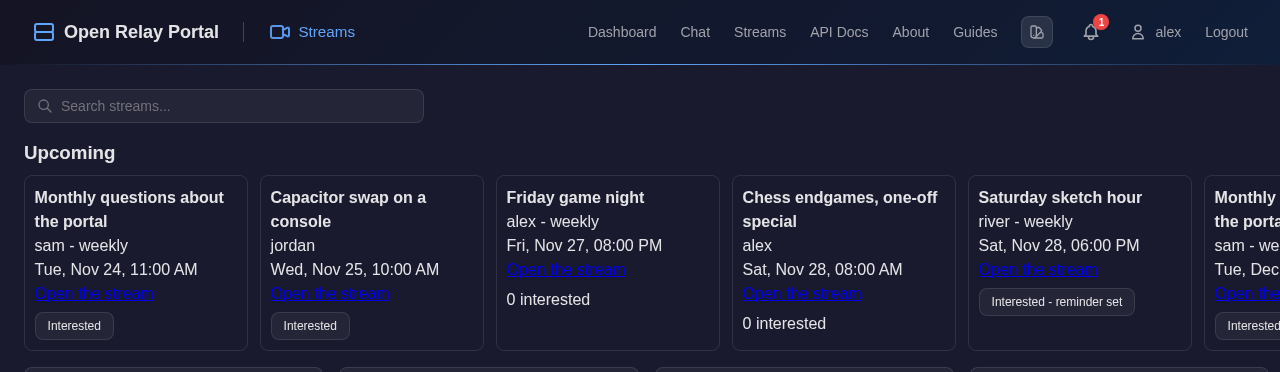
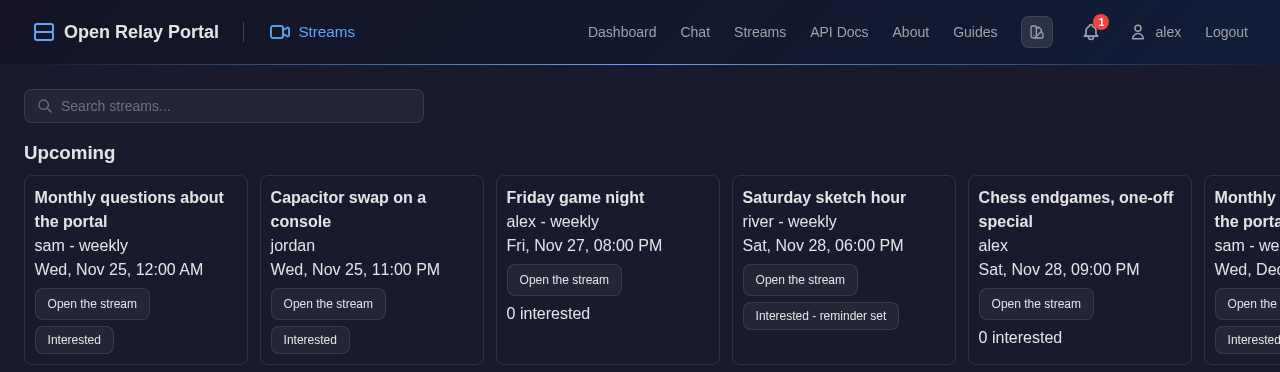
README: 1.23.0 notes read against the code (Interested marks of a member who lost access go when their reminder falls due, the Remove unavailable entries action, Regenerate asking first, the editor now styled); schedule editor, Upcoming strip, message menu and Saved view pictures retaken from the fi

diff --git a/tools/make_screenshots.py b/tools/make_screenshots.py
@@ -2122,7 +2122,8 @@ def _streams_upcoming(s):
 @shot("schedule-editor")
 def _schedule_editor(s):
     seeded_schedule(s)
-    ctx = s.context("alex", viewport={"width": 1280, "height": 2400})
+    # taller than the stream settings picture: the Schedule section is far down the window and its form is long
+    ctx = s.context("alex", viewport={"width": 1280, "height": 3600})
     page = s.open(ctx, "/", ".stat-card")
     page.evaluate("switchTab('my-streams')")
     page.wait_for_selector(".stream-card", timeout=15000)

diff --git a/README.md b/README.md
@@ -250,7 +250,7 @@ All pictures are taken from a throwaway demo instance with made-up members and a
 *Message menu (1.23.0) — Save message and Remind me... next to Reply, React and Copy Text; the two messages above it carry the small Saved marker that only you see*
 
 ![Saved view](docs/screenshots/saved-view.png)
-*Saved view (1.23.0) — a saved message with Jump to message, Remind me and Remove, one with a reminder set for tomorrow 9:00, and one that is no longer available (deleted: only the time it was saved is left)*
+*Saved view (1.23.0) — the Remove unavailable entries button above the list, a saved message with Jump to message, Remind me and Remove, one with a reminder set for tomorrow 9:00, and one that is no longer available (deleted: only the time it was saved is left)*
 
 ![Direct Messages](docs/screenshots/dms.png)
 *Direct Messages — private 1:1 and group conversations with encryption at rest*
@@ -875,12 +875,12 @@ Not tested: the rule and its cache were exercised with the portal's own handlers
 - **Who sees an entry:** exactly those who may watch the stream (`_stream_read_allowed`, the watch rule), asked again on every read: the upcoming list, the stream's countdown, the Interested mark, the reminder and the calendar feed. A member who may not watch gets the same `404` as for an unknown stream, and no list, count or reminder reveals the entry. The owner sees a count of interested members, never who.
 - **Visitors.** `/watch/{id}` sends anyone who is not signed in to the sign-in page, so a visitor never sees the offline page; nothing changes for visitors.
 - **Entries.** A title of at most 100 characters, a start as local time in an IANA zone (`2026-12-04T21:00`, `Europe/Berlin`), a duration of 5 to 1440 minutes and optionally `weekly`. A weekly entry keeps its wall-clock time: Friday 21:00 in Berlin is 20:00 UTC in winter and 19:00 UTC in summer. A start that does not exist (the hour skipped in spring) is read as zoneinfo reads it, an hour later. Caps: 20 entries per stream, 60 per owner, 200 upcoming Interested marks per member, 60 cancelled occurrences kept per entry. Cancel one occurrence or delete the whole entry; moving an entry's time drops the marks and cancellations of occurrences to come.
-- **Interested** refers to one occurrence (the one the countdown shows). It is dropped when that occurrence is cancelled or moved, and at the next tick when the member may no longer watch the stream or is banned from it. The Interested button on the countdown goes away once the start has passed, as the route refuses a mark from then on. Past marks are pruned after 7 days, and the hourly prune also removes the started marks of occurrences more than a day old (nothing reads them any more).
+- **Interested** refers to one occurrence (the one the countdown shows). It is dropped when that occurrence is cancelled or moved. A member who may no longer watch the stream or is banned from it sees nothing of it at once (every read asks the watch rule again), and the mark itself is dropped when its reminder falls due, in the first tick that finds the occurrence within 10 minutes of its start, without a reminder being sent. The Interested button on the countdown goes away once the start has passed, as the route refuses a mark from then on. Past marks are pruned after 7 days, and the hourly prune also removes the started marks of occurrences more than a day old (nothing reads them any more).
 - **Reminder.** One tick every 30 seconds sends the in-app notification (`stream_reminder`) and the push to each member with a mark whose occurrence starts within the next 10 minutes: between 10:00 and 9:30 before the start, so "Friday 21:00" reminds at about 20:50. The wording is under "For administrators, in short". The reminder is claimed in the database (the sent mark is stored with the mark and also in a small table that outlives it) before it is sent, so it is never sent twice, also across a restart and also when the member takes the mark back and marks again, or the owner cancels and restores the occurrence or moves the entry and back; a start that passed while the portal was down sends nothing. Before the claim the occurrence must still exist as scheduled (not cancelled, moved or started). Right after the claim the stream is read again and the member's right to watch it is checked again, and only then is anything sent: a stream made private in between, or a member who lost access, gets no notification, no push and no streamer name, the mark is dropped and the reminder is not owed again. **A mark made inside the 10 minutes** gets its one reminder at the next tick (at most one, never none, never two). **An occurrence start in a URL** is a whole number from 1 to 4102444800 (1 January 2100); anything else, however large, is refused (`404` on a mark, `400` on cancel and restore) instead of failing with a server error.
 - **A time zone the host lost.** If a tzdata update removes a zone name an entry was stored with, that one entry has no upcoming occurrence anywhere it is read: it is left out of the Upcoming list, of a stream's countdown, of the calendar feed and of the reminder pass (its marks stay and are not dropped, so the reminder works again if the zone does), a mark or a cancel on it is refused with `400`, and every other entry and every other member is unaffected. Its owner sees it in the editor with "time zone no longer available". The editor has no control that changes an entry, so the owner deletes it and adds it again with another zone; through the API a `PUT` with a new `tz` fixes it in place (a change of the start without a new zone is refused with `400`). Either way the entry's Interested marks are dropped, as for any change of the time. The portal logs it once per entry per day.
 - **Go-live.** A stream that goes live from 15 minutes before to 30 minutes after a slot's start belongs to that slot: the occurrence is marked started (the countdown moves to the next one, no reminder is sent for it) and the slot's title is offered to the owner in the stream settings (Use this title or Dismiss). Nothing is renamed by the server.
 - **Pages.** While a stream is offline the watch page shows the next occurrence with its title, a countdown and, for a signed-in member who is not the owner, an Interested toggle. The Streams page has an Upcoming strip, the stream settings a Schedule section, User settings a calendar link block.
-- **Calendar feed.** `GET /api/streams/schedule/feed/{token}.ics` needs no login. The token is made for one member (256 random bits, prefix `sf_`), stored only as a SHA-256 hash, shown once when it is made, replaced by Regenerate and ended by Revoke, and accepted by this route alone (it is no session, API key or bearer token anywhere else, and this route reads no cookie or header credential). The feed holds the entries of the streams the member follows, has marked Interested on, or owns, and of those only what they may watch at the moment of the fetch. Making a stream private removes it from a non-member's feed at the next fetch.
+- **Calendar feed.** `GET /api/streams/schedule/feed/{token}.ics` needs no login. The token is made for one member (256 random bits, prefix `sf_`), stored only as a SHA-256 hash, shown once when it is made, replaced by Regenerate and ended by Revoke, and accepted by this route alone (it is no session, API key or bearer token anywhere else, and this route reads no cookie or header credential). The feed holds the entries of the streams the member follows, has marked Interested on, or owns, and of those only what they may watch at the moment of the fetch. Making a stream private removes it from a non-member's feed at the next fetch. In User settings, Regenerate asks first and says that it ends the link in use, and the address that was shown is taken off the page when the settings dialog is closed.
 - **Daylight saving in the feed.** A weekly entry is one `VEVENT` with `DTSTART;TZID=<zone>:<local time>`, `RRULE:FREQ=WEEKLY`, `EXDATE;TZID=<zone>` for cancelled weeks and a `VTIMEZONE` built from the zone's real transitions (explicit observances, no rule parsing needed by the client). A UTC `DTSTART` would keep the UTC hour and drift by an hour at a change. Each cancelled week is printed at the wall-clock time the rule itself produces for it, also for a week whose time falls in the hour a spring-forward change skips (02:30 in Berlin stays 02:30, not 03:30), and the autumn fold. The `VTIMEZONE` block is built once per zone and year range, not once per fetch. The test expands the rule from the file alone across the Berlin change of 25 October 2026.
 - **Feed format and limits.** UIDs are `schedule-<entry id>@<host name>`; text is escaped, lines are folded at 75 octets, line ends are CRLF. Answers are `no-store` with `Referrer-Policy: no-referrer`; an unknown, malformed or revoked token is one identical `404`; `429` with `Retry-After` after 30 requests per token or 120 per address in 10 minutes (an IPv6 address counts as its /64 network, as in every other limiter; when the table of counters is full the entry used least recently is dropped, never all of them). That `429` goes the way of every other rate limit: its text carries a reference ID (kept per address, with the limiter names `schedule_feed_address` and `schedule_feed_token` for the administrator's lookup), so the reference rows stay bounded, and neither the token nor its hash is stored with it.
 - **Routes.** `GET /api/streams/schedule/upcoming` (30 requests a minute per member, its own budget separate from the chat history; `429` with `Retry-After` and a reference ID, limiter name `schedule_upcoming`), the entry and occurrence routes under `/api/streams/{id}/schedule`, `PUT`/`DELETE .../rsvp/{start}`, the feed and `/api/me/schedule-feed`, described in docs/API.md and `static/api-docs.html`.
@@ -893,7 +893,7 @@ Not tested: the rule and its cache were exercised with the portal's own handlers
 - **Private to the member.** Every route is the caller's own and takes a browser session or a full-access token (API keys and stream keys get `403`). No frame is sent on any socket when an entry is saved, changed or removed, no audit or log line is written about one, an administrator sees nothing (not even a count), and answers are `Cache-Control: private, no-store`. A save of a message that does not exist and of one the member may not read give the same `404`.
 - **Limits.** 500 saved entries and 100 waiting reminders per member (both enforced inside the SQL statement, not by a read followed by a write), a reminder at most 366 days ahead, at most 200 `reminder` notifications kept per member (when a firing would exceed that, the member's oldest `reminder` notifications are deleted in the same transaction, so re-arming reminders over and over cannot grow the notifications table without bound), the list in pages of 30 (at most 50) sharing the chat history budget of 30 a minute. A reminder time is an absolute UTC instant with a `Z`, in the future; the page works out "tomorrow 9:00" and "next week" in the member's own time zone and sends the instant.
 - **Reminders.** The task ticks every 30 seconds (the first tick 5 seconds after the start) and reads a partial index of the waiting reminders. A tick fires at most 50 due reminders, and at most 10 of one member (their oldest first, so a member with many due reminders cannot use the whole tick; the rest fire in the following ticks, none is lost and none fires twice); each one is marked fired and its `reminder` notification written in one database transaction, so it is never sent twice, also across a restart, and a reminder that came due while the portal was down is fired once at the first ticks after the start (50 per tick, so a long outage drains over a few ticks). The notification title is always "Reminder for a saved message" with no text; its data holds ids only, and clicking it opens the message through the existing jump-to-message, or the Saved view (`/chat?saved=1`) when the message cannot be read any more. A reminder for a direct message opens the Saved view; Jump to message there opens the conversation, not the message in context, because there is no per-message jump for direct messages. The in-app frame and the push are sent after that commit: a crash between the two would lose that one push, never repeat it. The push payload is the fixed title, the body "Open the portal to see it." and the jump URL: never message text, an author or a channel name.
-- **Chat page.** "Save message" / "Remove from Saved" and "Remind me..." in the message menu, a "Saved" marker on saved messages (only in the member's own browser), a **Saved** button above the chat that opens the list with Jump to message, Remind me (quick choices, a date and time picker, Clear reminder) and Remove, a full-screen layout with 44 px controls on a phone, and the keyboard path: the message list takes focus, the arrow keys move between messages, the menu key (or Shift+F10) opens that message's menu, arrow keys, Enter and Escape work in it, and Escape closes the Saved view and returns focus to its button. `/chat?saved=1` opens the Saved view. Saved entries are shown with text nodes only.
+- **Chat page.** "Save message" / "Remove from Saved" and "Remind me..." in the message menu (Remind me on a message that has a reminder opens with its time and a Clear reminder button; on a message that is not saved yet it saves it and says "Saved"), a "Saved" marker on saved messages (only in the member's own browser), a **Saved** button above the chat that opens the list with Jump to message, Remind me (quick choices, a date and time picker, Clear reminder) and Remove, a **Remove unavailable entries** button (shown only while a listed entry is unavailable; it asks first, then calls `DELETE /api/saved/unavailable` and reloads the list), a full-screen layout with 44 px controls on a phone, and the keyboard path: the message list takes focus, the arrow keys move between messages, the menu key (or Shift+F10) opens that message's menu, arrow keys, Enter and Escape work in it, and Escape closes the Saved view and returns focus to its button. `/chat?saved=1` opens the Saved view. Saved entries are shown with text nodes only.
 - **Phones and tablets.** Every action of the message menu (reply, react, copy, save, remind, edit, pin, delete) opened only on a right click or the menu key, and iOS Safari does not fire a context menu on a long press, so they were out of reach there. Where the device has no hover or a coarse pointer, every message now shows a small **...** button (a real button, 44 px, labelled "Message actions", made by `chat-saved.js`, no inline handler) that opens the same menu; the menu key and the arrow keys still work, and on a laptop or desktop the button is hidden. How it looks and whether it feels right on a real phone was not seen (see Not tested). The Saved view, its buttons and a reminder that arrives work on iOS.
 - **Routes.** `GET /api/saved`, `GET /api/saved/marks`, `POST /api/saved`, `DELETE /api/saved/{id}`, `DELETE /api/saved/unavailable`, `PUT /api/saved/{id}/remind`, described in docs/API.md and `static/api-docs.html`.
 
@@ -909,7 +909,7 @@ None for existing clients and nothing stops working. The behaviour changes an up
 **Database, static files, rollback and what was not tested**
 
 - **Database.** Seven tables are created with `IF NOT EXISTS` at start, each with its indexes: the six of the stream schedule (`stream_schedule` with `idx_stream_schedule_stream`, `stream_schedule_cancelled`, `stream_schedule_started`, `stream_rsvps` with `idx_stream_rsvps_occ` and `idx_stream_rsvps_entry`, `stream_rsvp_sent` (the sent marks that make a reminder go out once) with `idx_stream_rsvp_sent_occ`, and `schedule_feed_tokens`) and `saved_messages` (id, user_id with `ON DELETE CASCADE`, kind with a `CHECK`, scope_id, message_id, saved_at, remind_at, fired_at, `UNIQUE (user_id, kind, message_id)`, `idx_saved_messages_user (user_id, id)` and the partial index `idx_saved_messages_due (remind_at) WHERE remind_at IS NOT NULL AND fired_at IS NULL`). No column of an existing table is added, nothing is copied or rewritten, so the start is as cheap on a 250 MB database as on an empty one. `push_prefs` is unchanged. Deleting a member removes their marks, feed token and saved entries (foreign keys; `delete_user` removes the saved rows explicitly as well); deleting a stream removes its schedule. Past marks are pruned after 7 days.
-- **Static files.** The versions the pages load: `stream-schedule.js` is new at version 5 (`watch.html`, `streams.html` and `index.html`; version 2 hides the Interested button once the start has passed, version 3 tells the owner when the time zone of an entry is no longer available, version 4 gives the owner's editor the form styling of the stream settings, version 5 takes the underline off the Upcoming link to the stream); `streams.js` is version 51 (`index.html`; it mounts the schedule editor in the stream settings and, after Use this title, brings the stream's name field, heading and list up to date); `push.js` is version 5 (every page that loads it; the new switch label); `chat-saved.js` is new (v4, loaded by `chat.html`; v2 refreshes the saved markers at most once a minute when you return to the tab, v3 adds the per-message actions button for touch screens, v4 shows the current reminder of a message that has one when you choose Remind me, says when Remind me saved the message, and gives every message its actions button even when the saved markers could not be loaded); and `portal.js` is now v52 on every page that loads it. No stylesheet changed.
+- **Static files.** The versions the pages load: `stream-schedule.js` is new at version 5 (`watch.html`, `streams.html` and `index.html`; version 2 hides the Interested button once the start has passed, version 3 tells the owner when the time zone of an entry is no longer available, version 4 gives the owner's editor the form styling of the stream settings, version 5 takes the underline off the Upcoming link to the stream); `streams.js` is version 51 (`index.html`; it mounts the schedule editor in the stream settings and, after Use this title, brings the stream's name field, heading and list up to date); `push.js` is version 5 (every page that loads it; the new switch label); `chat-saved.js` is new (v4, loaded by `chat.html`; v2 refreshes the saved markers at most once a minute when you return to the tab, v3 adds the per-message actions button for touch screens, v4 shows the current reminder of a message that has one when you choose Remind me, says when Remind me saved the message, gives every message its actions button even when the saved markers could not be loaded, and adds the Remove unavailable entries button to the Saved view); and `portal.js` is now v52 on every page that loads it. No stylesheet changed.
 - **Rollback.** Going back to 1.22.0 runs on the migrated database and ignores the seven tables. Stream schedule: 1.22.0's database layer (its `database.py`, run from a checkout of the 1.22.0 commit) opens a migrated database, leaves the new tables as they are, and deleting a member or a stream under it removes their schedule rows through the foreign keys; the integrity check was ok. Schedules, marks and calendar links are kept and become active again with a later upgrade; while 1.22.0 runs, no reminder is sent and no feed is served. Saved messages: the 1.22.0 tree was started twice on a copy of a staged database that holds saved entries (healthy and clean both times, `/health` 200, schema unchanged by the second start); the saved entries and waiting reminders stay stored, no reminder fires while 1.22.0 runs, and one that came due fires at the first ticks after a later upgrade. Notifications of type `reminder` that were already created show in 1.22.0 as ordinary notifications: one that names a message still jumps to it, the others open nothing. The 1.22.0 server process was not started on a database that holds schedule rows; only its database layer was opened on one.
 - **Not tested.**
   - **Stream schedule.** Proven by tests on a real database and server with fakes only: the push delivery (a recorder replaces the push service), the clock (tests move it; the staged smoke check uses the real clock and the real 30 second tick), the sign-in (a stand-in replaces the credential check in the in-process tests; the smoke check uses real logins). No phone received a push, no calendar application (Apple Calendar, Google Calendar, Thunderbird) read the feed, and nothing ran behind Cloudflare. The .ics file is checked by a parser written for the test, not by a calendar client.
@@ -917,7 +917,7 @@ None for existing clients and nothing stops working. The behaviour changes an up
   - **No real push service and no Cloudflare.** The push path was tested with a fake sender and with the staged loopback sink; delivery to a phone, a lock-screen notification and its tap were not seen, and nothing was tried through Cloudflare.
   - **No calendar and no daylight-saving edge beyond the tested ones.** "Tomorrow 9:00" was checked in Europe/Berlin across the March clock change and in America/New_York; other zones, a 9:00 that does not exist, and a device whose clock is wrong were not tried. A client that sends a time with another offset is refused by design.
   - **Not tried at scale.** The clean-up and the tick were run on small databases; the partial index and one-query idle tick are asserted with `EXPLAIN QUERY PLAN` and a query counter, not timed on a 250 MB database.
-  - **Desktop Chromium only, and no phone.** The tests draw nothing. The pictures in Screenshots were taken once with a headless Chromium at desktop size on a staged demo instance with made-up data: they show that the countdown, the Interested toggle, the Upcoming strip, the schedule editor, the calendar link block, the message menu and the Saved view render. The schedule editor's form is plain (labels and fields run together, default field colours); it was not styled in this release. Not seen: any other browser (Firefox, Safari), a phone or tablet, the focus ring, the full-screen layout and the 44 px targets on a phone, and a calendar application reading the feed.
+  - **Desktop Chromium only, and no phone.** The tests draw nothing. The pictures in Screenshots were taken once with a headless Chromium at desktop size on a staged demo instance with made-up data: they show that the countdown, the Interested toggle, the Upcoming strip, the schedule editor, the calendar link block, the message menu and the Saved view render. The schedule editor's form uses the form classes of the stream settings, with every label linked to its field. Not seen: any other browser (Firefox, Safari), a phone or tablet, the focus ring, the full-screen layout and the 44 px targets on a phone, and a calendar application reading the feed.
 
 ### Upgrade notes for 1.22.0
 
